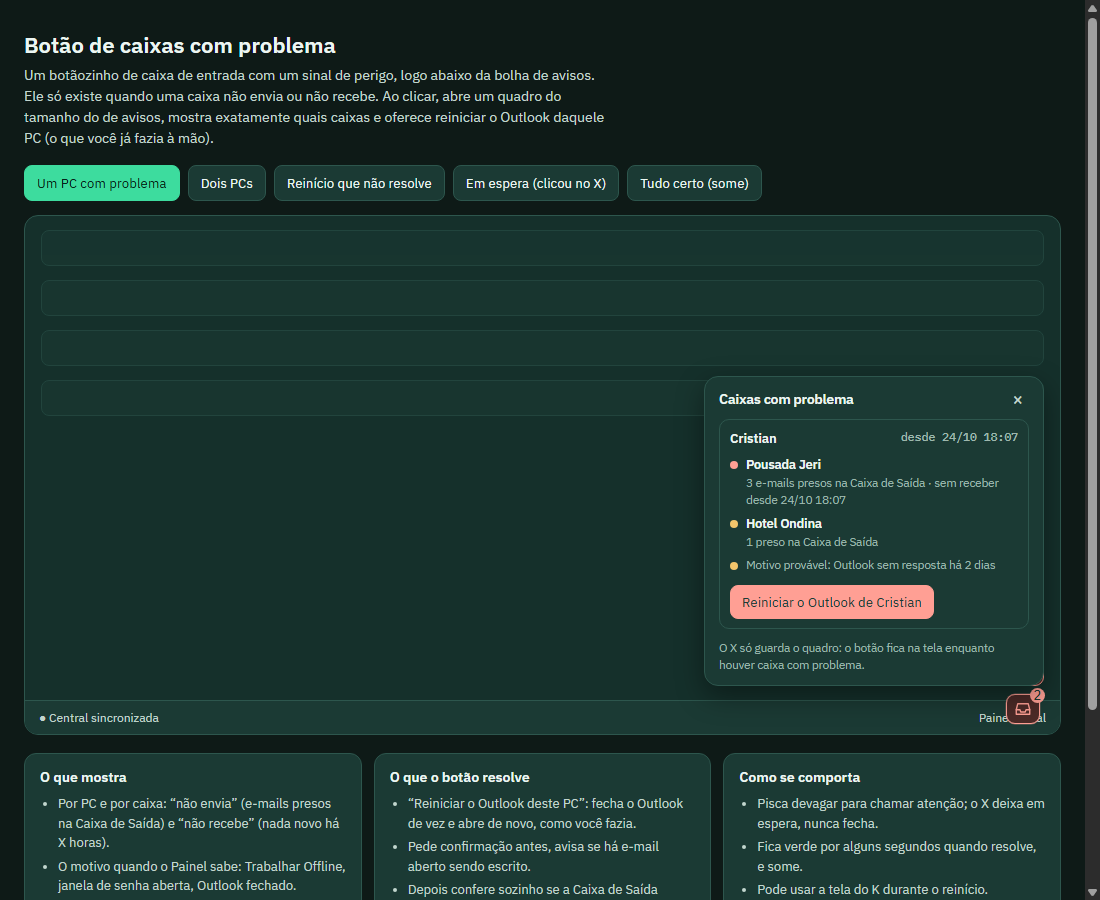
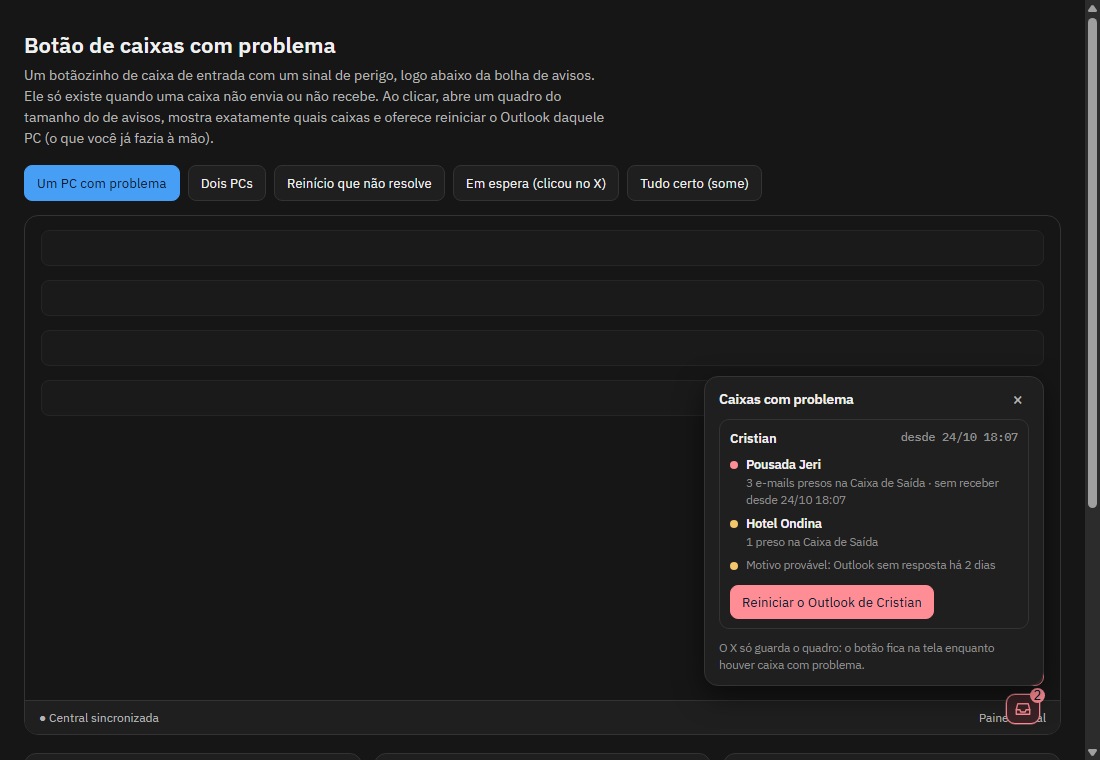
Cofre: desenho das caixas com problema na paleta da auditoria (sem verde)

diff --git a/Segundo Cérebro/6 Documentos/Designs/2026-10-27 Caixas com problema.html b/Segundo Cérebro/6 Documentos/Designs/2026-10-27 Caixas com problema.html
@@ -1,16 +1,16 @@
 <title>Caixas com problema</title>
 <link rel="stylesheet" href="https://fonts.googleapis.com/css2?family=IBM+Plex+Sans:wght@400;500;600&family=IBM+Plex+Mono:wght@400;500&display=swap">
 <style>
-:root{--pg:#eef4f1;--chao:#eef4f1;--folha:#fff;--linha:#d9e5df;--tinta:#0f241d;--t2:#3d544b;--t3:#556a62;--verde:#08805a;--ok:#13693f;--atencao:#8a5a00;--erro:#b4352a;--erro-f:#fbe4df;--ok-f:#dff3e6;--sombra:0 6px 24px rgba(10,107,78,.16)}
-@media (prefers-color-scheme:dark){:root:not([data-theme="light"]){--pg:#0e1a17;--chao:#15302b;--folha:#1b3a34;--linha:#2d564d;--tinta:#ecf6f2;--t2:#c2d6ce;--t3:#9fb8ae;--verde:#3ddc9e;--ok:#7ae8b0;--atencao:#f3c66b;--erro:#ff9f94;--erro-f:#4c2a27;--ok-f:#1e4a3a;--sombra:0 10px 28px rgba(0,0,0,.4);color-scheme:dark}}
-:root[data-theme="dark"]{--pg:#0e1a17;--chao:#15302b;--folha:#1b3a34;--linha:#2d564d;--tinta:#ecf6f2;--t2:#c2d6ce;--t3:#9fb8ae;--verde:#3ddc9e;--ok:#7ae8b0;--atencao:#f3c66b;--erro:#ff9f94;--erro-f:#4c2a27;--ok-f:#1e4a3a;--sombra:0 10px 28px rgba(0,0,0,.4);color-scheme:dark}
+:root{--pg:#f6f7f8;--chao:#f6f7f8;--folha:#fff;--linha:#e2e5e9;--tinta:#1b1f24;--t2:#4b5560;--t3:#6b7580;--verde:#0f6cbd;--sobre:#fff;--ok:#0f6cbd;--atencao:#9a6700;--erro:#c4314b;--erro-f:#fbe9ec;--ok-f:#e7f1fb;--sombra:0 6px 24px rgba(0,0,0,.14)}
+@media (prefers-color-scheme:dark){:root:not([data-theme="light"]){--pg:#161616;--chao:#161616;--folha:#1f1f1f;--linha:#333;--tinta:#f0f0f0;--t2:#b4b4b4;--t3:#8f8f8f;--verde:#479ef5;--sobre:#0b1d2e;--ok:#479ef5;--atencao:#f2c76b;--erro:#ff8d95;--erro-f:#3a2326;--ok-f:#16324d;--sombra:0 10px 28px rgba(0,0,0,.5);color-scheme:dark}}
+:root[data-theme="dark"]{--pg:#161616;--chao:#161616;--folha:#1f1f1f;--linha:#333;--tinta:#f0f0f0;--t2:#b4b4b4;--t3:#8f8f8f;--verde:#479ef5;--sobre:#0b1d2e;--ok:#479ef5;--atencao:#f2c76b;--erro:#ff8d95;--erro-f:#3a2326;--ok-f:#16324d;--sombra:0 10px 28px rgba(0,0,0,.5);color-scheme:dark}
 *{box-sizing:border-box}
 body{background:var(--pg);color:var(--tinta);font:14px/1.5 "IBM Plex Sans",system-ui,sans-serif;padding-inline:16px;padding-block:20px}
 .wrap{max-width:1040px;margin:0 auto}
 h1{font-size:22px;margin:0 0 4px;text-wrap:balance}.sub{color:var(--t2);margin:0 0 16px;max-width:70ch}
 .ctl{display:flex;flex-wrap:wrap;gap:8px;margin-bottom:14px}
 .ctl button{font:500 13px inherit;font-family:inherit;border:1px solid var(--linha);background:var(--folha);color:var(--tinta);padding:8px 12px;border-radius:8px;cursor:pointer}
-.ctl button:hover{border-color:var(--verde)}.ctl button.p{background:var(--verde);color:#052219;border-color:var(--verde)}
+.ctl button:hover{border-color:var(--verde)}.ctl button.p{background:var(--verde);color:var(--sobre);border-color:var(--verde)}
 .tela{position:relative;height:520px;border:1px solid var(--linha);border-radius:14px;overflow:hidden;background:var(--chao)}
 .rod{position:absolute;left:0;right:0;bottom:0;height:34px;border-top:1px solid var(--linha);background:var(--folha);display:flex;align-items:center;gap:12px;padding:0 14px;font-size:12px;color:var(--t2)}
 .rod .mo{margin-left:auto}
@@ -22,7 +22,7 @@ h1{font-size:22px;margin:0 0 4px;text-wrap:balance}.sub{color:var(--t2);margin:0
 .cx.on{display:block}
 .cx-bt{position:relative;width:34px;height:30px;border-radius:9px;border:1px solid var(--erro);background:var(--erro-f);color:var(--erro);cursor:pointer;display:grid;place-items:center;padding:0}
 .cx-bt svg{width:18px;height:18px}
-.cx-bt .pg{position:absolute;right:-6px;top:-7px;width:15px;height:15px;border-radius:50%;background:var(--erro);color:var(--folha);display:grid;place-items:center;font:700 10px/1 inherit;font-family:inherit}
+.cx-bt .pg{position:absolute;right:-6px;top:-7px;width:15px;height:15px;border-radius:50%;background:var(--erro);color:var(--sobre);display:grid;place-items:center;font:700 10px/1 inherit;font-family:inherit}
 .cx.pisca .cx-bt{animation:pulso 2s ease-in-out infinite}
 @keyframes pulso{0%,100%{box-shadow:0 0 0 0 color-mix(in srgb,var(--erro) 50%,transparent)}50%{box-shadow:0 0 0 7px transparent}}
 .cx.ok .cx-bt{border-color:var(--ok);background:var(--ok-f);color:var(--ok);animation:none}
@@ -44,7 +44,7 @@ h1{font-size:22px;margin:0 0 4px;text-wrap:balance}.sub{color:var(--t2);margin:0
 .cai b{color:var(--tinta);font-weight:600}
 .cai small{display:block;color:var(--t3);font-size:11.5px}
 .acao{margin-top:8px;display:flex;gap:8px;align-items:center}
-.acao button{font:600 12.5px inherit;font-family:inherit;border-radius:8px;padding:7px 11px;cursor:pointer;border:1px solid var(--erro);background:var(--erro);color:var(--folha)}
+.acao button{font:600 12.5px inherit;font-family:inherit;border-radius:8px;padding:7px 11px;cursor:pointer;border:1px solid var(--erro);background:var(--erro);color:var(--sobre)}
 .acao button.s{background:transparent;color:var(--tinta);border-color:var(--linha)}
 .acao button:disabled{opacity:.5;cursor:default}
 .conf{margin-top:8px;padding:8px 10px;border-radius:8px;background:var(--erro-f);font-size:12.5px;color:var(--tinta)}

diff --git a/Segundo Cérebro/6 Documentos/Designs.md b/Segundo Cérebro/6 Documentos/Designs.md
@@ -29,7 +29,7 @@ em React do João). Esperando a escolha.
 Pedido do João: botãozinho (caixa de entrada com sinal de perigo) logo abaixo da bolha de avisos; clique abre quadro do
 tamanho do de avisos com as caixas que não enviam/recebem e botão "Reiniciar o Outlook" (o que ele fazia à mão); o X deixa
 em espera, nunca fecha. **Aguardando OK e 3 respostas** (reiniciar PC de outro pela rede? reinício automático após 30 min?
-quem vê?). Nada mexido no código.
+quem vê?). Cores: exatamente a paleta da Auditoria (cinzas, azul, âmbar, vermelho; sem verde) a pedido do João. Nada mexido no código.
 - **Abrir a página:** [[2026-10-27 Caixas com problema.html|Caixas com problema]]
 
 ![[2026-10-27 Caixas com problema.png|700]]
